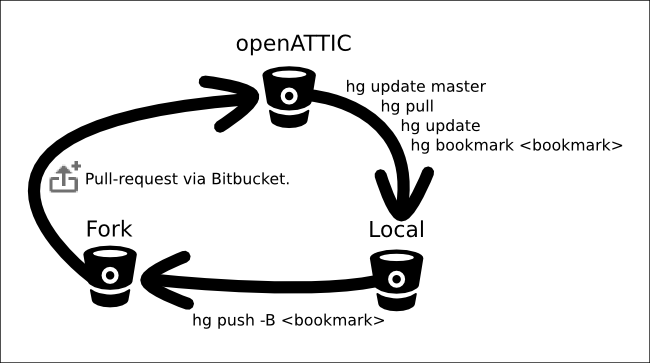
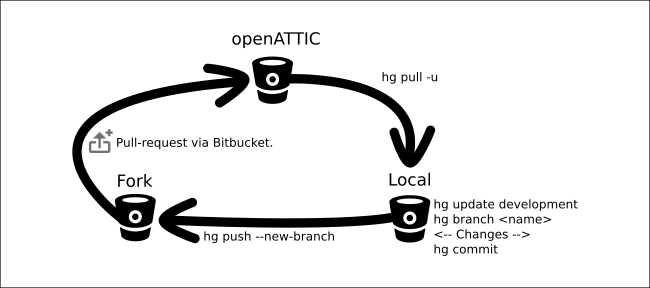
Updated contribute to meet the new branches workflow.

Changed region(s): [[0.0308, 0.0938, 0.9538, 0.9062], [0.0, 0.9688, 0.9846, 1.0]]

diff --git a/documentation/developer_docs/contribute.rst b/documentation/developer_docs/contribute.rst
@@ -13,8 +13,8 @@ Working on your fork
 --------------------
 
 A fork is a remote clone of a repository and every |oA| developer has an |oA|
-fork, to get one you first have to join Bitbucket. After that go to
-https://bitbucket.org/openattic/openattic and click on "Fork" on the left side
+fork, to get one you first have to join `Bitbucket <https://bitbucket.org>`_. After that go to
+`our main repository <https://bitbucket.org/openattic/openattic>`_ and click "Fork" on the left side
 under "ACTIONS".
 
 After that you have your own |oA| fork :)
@@ -28,141 +28,142 @@ should contain the following three lines::
     default = https://hg@bitbucket.org/openattic/openattic
     default-push = https://hg@bitbucket.org/<Your user name>/openattic
 
-With this configuration you always pull from the main |oA| repository and always
+With this configuration you will always pull from the main |oA| repository and always
 push to your |oA| fork.
 
-If you want to push via SSH, you can. You only have to replace your default-push with::
+If you want to push via SSH, you will only have to replace your ``default-push``::
 
     default-push = ssh://hg@bitbucket.org/<Your user name>/openattic
 
-If you want to use SSH behind a proxy install `corkscrew <http://agroman.net/corkscrew/>`_. Now append the
-following two lines to your `$HOME/.ssh/config`::
+If you want to use SSH behind a proxy you may use `corkscrew <http://agroman.net/corkscrew/>`_.
+After the installation append the following two lines to your `$HOME/.ssh/config`::
 
     Host bitbucket.org
         ProxyCommand corkscrew <proxy name or ip> <port number> %h %p
 
-Now you can use SSH behind your proxy, because corkscrew now tunnels your TCP
-connections to bitbucket.org through the proxy.
+Now you can use SSH behind the proxy, because corkscrew now tunnels your SSH
+connections through the proxy to bitbucket.org.
 
 
-Working with bookmarks
-----------------------
+Working with branches
+---------------------
 
-First create a bookmark called "master" in your "development" branch,
-you only have to do this once::
+To create a new feature branch update to the development branch, update it and
+create a new branch in which you commit your feature changes::
 
+    # hg pull
     # hg update development
-    # hg pull
-    # hg update
-    # hg bookmark master
-
-Now you can update your development branch and your master bookmark like this::
-
-    # hg update master
-    # hg pull
-    < If anything was pulled, update your "master" bookmark. >
-    # hg update
-
-To create a new feature bookmark go into your "master" bookmark and create a
-new bookmark in which you commit your feature changes::
-
-    # hg update master
-    # hg bookmark feature
+    # hg branch feature
     < Your code changes. >
     # hg commit
 
-To list your bookmarks and show the current bookmark you are working in type::
+To list your branches type::
 
-    # hg bookmark
+    # hg branches
 
-For example the output could be::
+To show the current branch you are working with type::
 
-    >   feature                   1838:28ba1c97ef35
-    > * bugfix                    1841:a1b2c3d4e5f6
-    >   master                    1837:1a23b45c67ef
-
-In this case you are working on the bookmark "bugfix". Your "master" bookmark
-is behind your "feature" and your "bugfix" bookmark. This means you have two
-heads in your development branch. The "feature" head and the "bugfix" head.
+    # hg branch
 
 After you are done with your changes, you want to push them to your fork::
 
-    # hg push -B <bookmark name>
+    # hg push
 
-If you can't push them because a new remote head would be created use::
+If you can't push them because a new remote branch would be created use::
 
-    # hg push -B <bookmark name> -f
+    # hg push --new-branch
 
-Now that your fork has your local changes, too, you can create a
-pull-request with the changes you have made. If your pull-request was merged
-into the main repository, you have to manually merge the accepted bookmark in
-your "master" bookmark. After that you can delete your local bookmark for a
-better overview::
+Now that your fork contains your local changes, too, you can create a
+pull-request on `Bitbucket <https://bitbucket.org>`_ with the changes you have made.
 
-    # hg update master
-    # hg merge <accepted bookmark>
-    # hg bookmark -d <accepted bookmark>
+To do this, go to your fork on `Bitbucket <https://bitbucket.org>`_ and click ``Create pull request`` in the left panel.
+On the next page, choose as source the branch with your changes and as target the |oA| development branch.
+Beneath the formula your first check out the ``Diff`` part if there are any merge conflicts,
+if you have some, you have go back into your branch and update it::
 
-A few information why the merge is needed:
-After the pull request was merged into the main repository, your first
-committed changeset often has a new parent, but a hg pull looks only for new
-changesets not if they have a new parent. If you run hg pull it will have no
-new changesets for you. Thats why you have to manually merge your bookmark into
-your master. This will close the head if one exists. If there is no new
-head you can also just update your master.
+    # hg pull
+    # hg merge development
 
+After you have resolved the merge conflicts you have to push them on your fork and make the pull-request.
 
-The following images illustrate the concept.
+After the pull-request was reviewed and accepted your branch will be merged into the main repository.
+Than your branch will be deleted by the maintainer.
+You should not delete your then branch yourself, because after you pull again from the main repository,
+you also get the changeset that deletes your branch.
+
+To push the deletion to your fork again you have to the following::
+
+    #hg pull -u
+    #hg push
+
+Collaborate with others or test their code
+------------------------------------------
+
+To pull a branch from another developer type the following::
+
+    # hg pull <alias or fork URL> <branch name>
+
+If you plan to collaborate to the branch you have to push your changes to your branch.
+The other developer pulls than the changes from you with the same command you pulled his.
+
+To create and use an alias you have to edit your ``.hg/hgrc`` and add a new alias beneath ``[paths]``::
+
+    <alias name> = <fork clone URL>
+
+---------------
+
+The following images illustrate this concept.
 
 .. image:: workflow_bitbucket.png
 
-Shows the different repositories and how they work together.
+Shows the workflow between the main repository and your fork.
 
-.. image:: workflow_bookmarks.png
+.. image:: workflow_collaboration.png
 
-Describes the workflow with bookmarks.
+Displays the collaborate workflow between two forks.
+
+.. image:: workflow_branches.png
+
+Describes the workflow with branches.
 
 -------------------------
 
 **To sum it up**
 
-Work on this bookmark::
+Work on a specific branch::
 
-    # hg update <bookmark name>
+    # hg update <branch name>
 
 Fetch new revisions from |oA|::
 
-    # hg pull
+    # hg pull -u
 
-Bring your bookmark to the newest revision::
+Merge your branch to the newest revision::
 
-    # hg update
+    # hg pull -u
+    # hg merge development
 
-Create a new bookmark on the current revision and update to the new bookmark::
+Create a new branch on top of the current working branch::
 
-    # hg bookmark <bookmark name>
+    # hg branch <branch name>
 
-Create a new bookmark on the given revision::
+Lists all open branches::
 
-    # hg bookmark <bookmark name> -r <bookmark name or revision>
+    # hg branches
 
-Delete the specified bookmark, the commits will still be there::
+Show current working branch::
 
-    # hg bookmark -d <bookmark name>
+    # hg branch
 
-Lists all bookmarks with revisions and shows you on which you are working::
+Merges a branch into the current working branch::
 
-    # hg bookmark
+    # hg merge <branch name>
 
-Merges a bookmark into the current bookmark you are working in::
+Push your changes on your fork::
 
-    # hg merge <bookmark name>
+    # hg push
 
-Export your specified bookmark to your fork and pushes your changes::
+Does the above, but creates a new branch or deletes an old one::
 
-    # hg push -B <bookmark name>
-
-Does the above and forces the push even if a new head is created::
-
-    # hg push -B <bookmark name> -f
+    # hg push --new-branch
 
